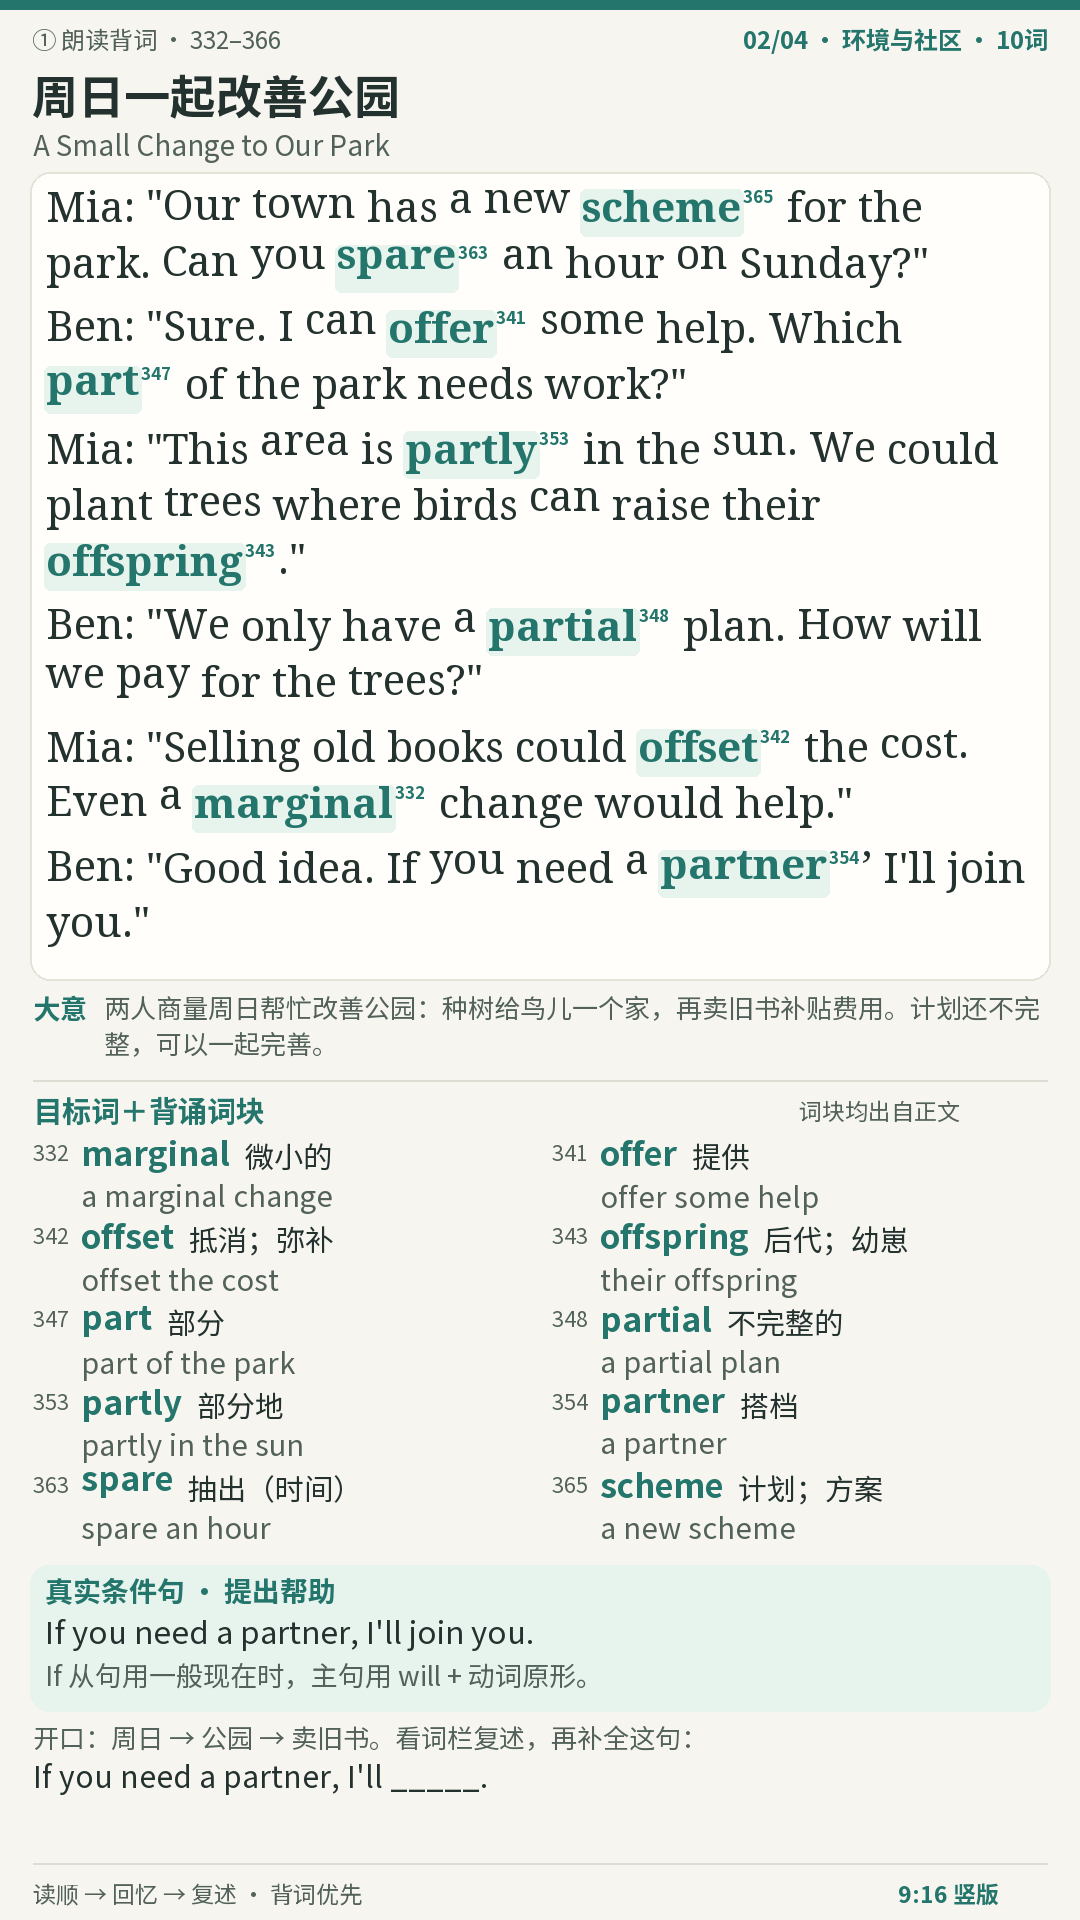
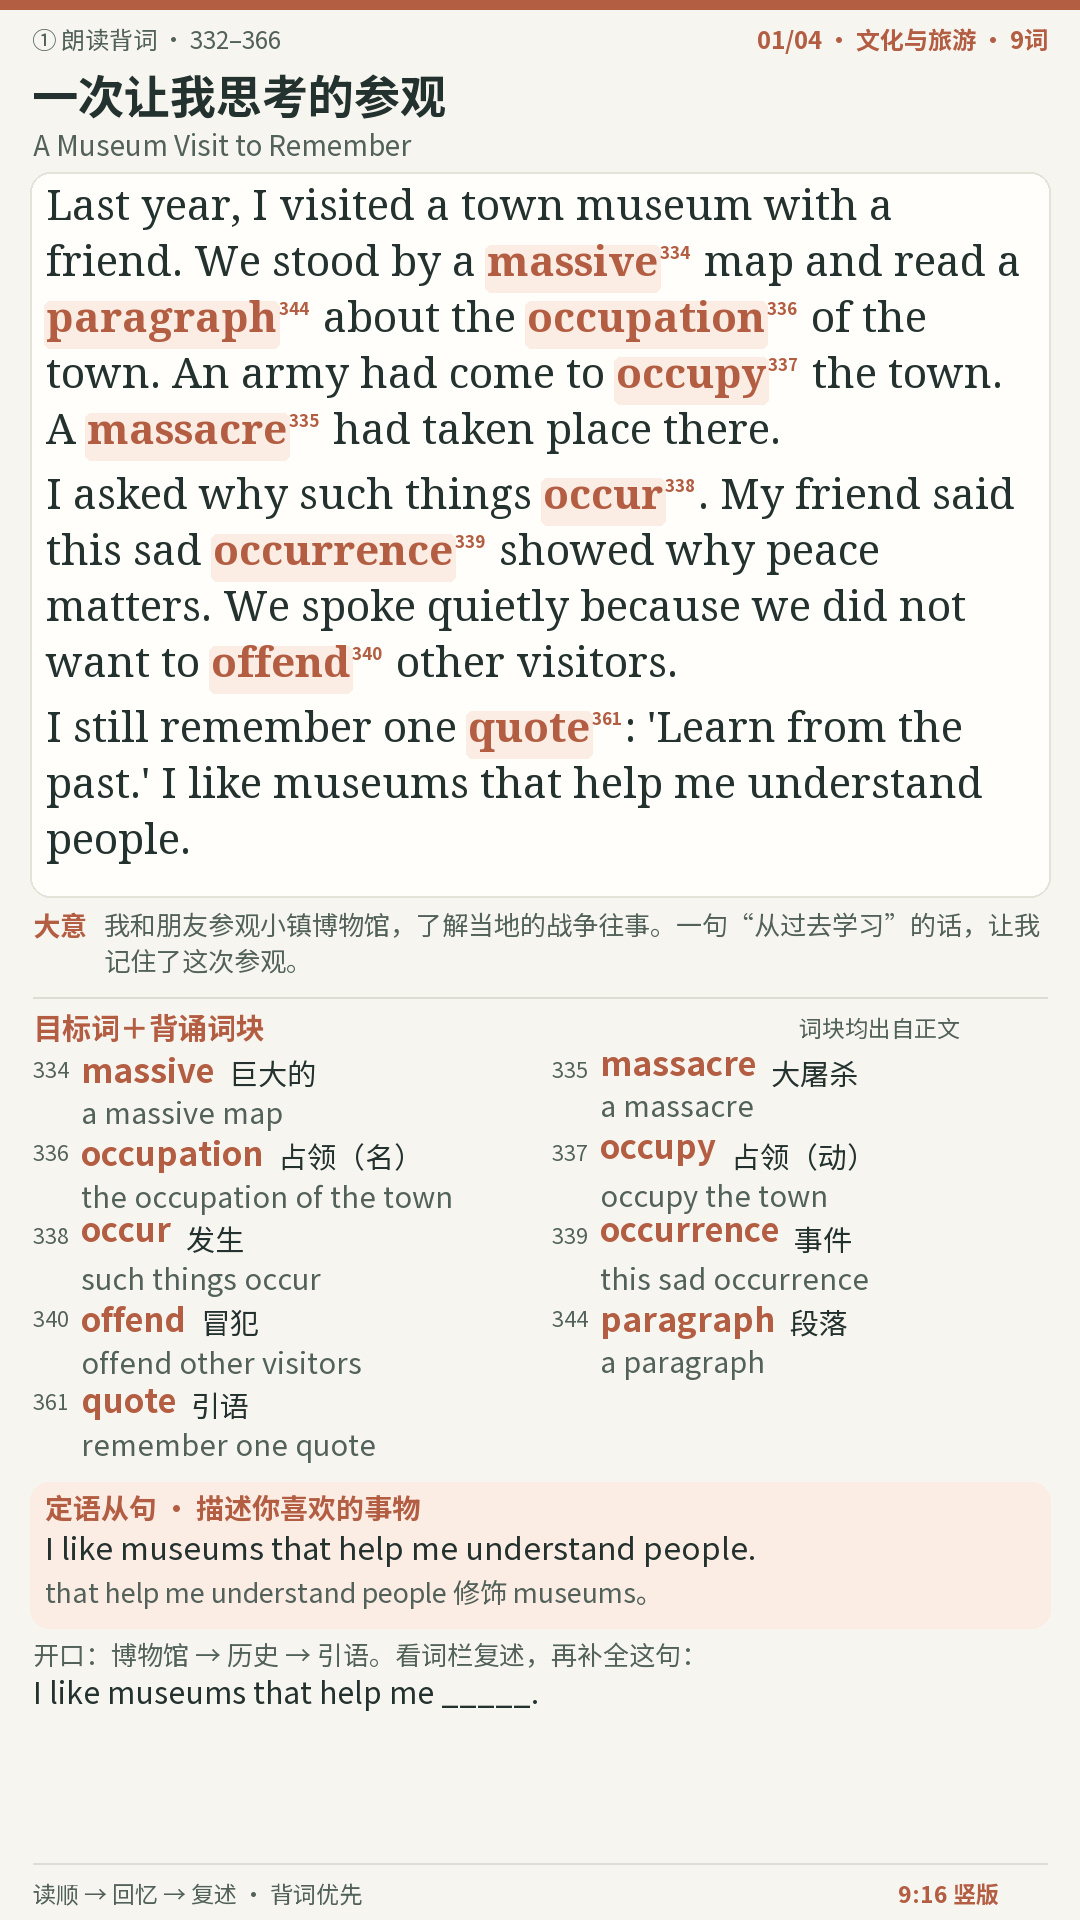
Fix shared baselines for inline story and cloze text

Changed region(s): [[0.0, 0.0, 1.0, 0.9375], [0.8556, 0.9688, 0.9167, 1.0], [0.7639, 0.75, 0.825, 0.7812]]

diff --git a/tests/test_render.py b/tests/test_render.py
@@ -1,0 +1,47 @@
+"""Raster regressions for readable inline English, independent of delivery checks."""
+import unittest
+
+from PIL import Image, ImageDraw
+
+from wordstory.common import ROOT
+from wordstory.fonts import font
+from wordstory.render import BG, rich
+
+
+@unittest.skipUnless((ROOT / "assets/fonts/NotoSerif.ttf").exists(), "Run python -m wordstory fonts")
+class InlineTypographyTests(unittest.TestCase):
+    def test_lowercase_capitals_targets_and_punctuation_share_baseline(self):
+        # These words end on the same baseline; only bridge has a descender.
+        # Looking at raster ink catches the old per-token top alignment even
+        # though the PNG size, coverage, and overflow checks all still passed.
+        for masked in (False, True):
+            with self.subTest(masked=masked):
+                image = Image.new("RGB", (1000, 160), BG)
+                draw = ImageDraw.Draw(image)
+                words = ["I", "we", "a", "mass", "we", "a", "bridge", "."]
+                rich(draw, "I we a mass we a bridge .", 20, 40, 960,
+                     {"mass"}, {"mass": {"number": 333}}, "#496BA0", "#EAF0FA", masked=masked)
+                x, bottoms = 20, []
+                for word in words:
+                    target = word == "mass"
+                    display = "______" if target and masked else word
+                    width = draw.textlength(display, font=font("body", 42, target))
+                    # Leave the superscript outside the word crop.
+                    crop = image.crop((int(x) - 1, 20, int(x + width) + 1, 130))
+                    ink = crop.convert("L").point(lambda p: 255 if p < 190 else 0)
+                    bounds = ink.getbbox()
+                    self.assertIsNotNone(bounds, word)
+                    if not (target and masked):
+                        bottoms.append((word, bounds[3] + 20))
+                    x += width
+                    if target:
+                        x += draw.textlength("333", font=font("ui", 17, True)) + 5
+                    x += draw.textlength(" ", font=font("body", 42))
+                baseline_bottoms = [bottom for word, bottom in bottoms if word != "bridge"]
+                self.assertLessEqual(max(baseline_bottoms) - min(baseline_bottoms), 1, bottoms)
+                descender_bottom = next(bottom for word, bottom in bottoms if word == "bridge")
+                self.assertGreaterEqual(descender_bottom - max(baseline_bottoms), 8)
+
+
+if __name__ == "__main__":
+    unittest.main()

diff --git a/wordstory/render.py b/wordstory/render.py
@@ -43,6 +43,9 @@ def wrapped(draw, value, x, y, width, size, leading, color=INK, bold=False):
 def rich(draw, paragraph, x, y, width, targets, vocab, accent, tint, masked=False):
     # Keep punctuation with each word; exact headwords receive original numbers.
     x0 = x
+    # y is the line's cap-height top. All body runs share its baseline:
+    # anchor="lt" would lift lowercase-only words and standalone punctuation.
+    baseline_offset = -font("body", 42).getbbox("H", anchor="ls")[1]
     paragraph = paragraph.replace("’", "'")
     pattern = r"(?<![A-Za-z])(?:" + "|".join(re.escape(w) for w in sorted(targets, key=len, reverse=True)) + r")(?![A-Za-z])"
     units, last = [], 0
@@ -78,10 +81,10 @@ def rich(draw, paragraph, x, y, width, targets, vocab, accent, tint, masked=Fals
                 if masked:
                     draw.line((x, y + 43, x + sw, y + 43), fill=accent, width=2)
                 else:
-                    draw.text((x, y), part, font=ft, fill=accent, anchor="lt")
+                    draw.text((x, y + baseline_offset), part, font=ft, fill=accent, anchor="ls")
                 text(draw, (x + sw + 2, y), number, 17, accent, True)
             else:
-                draw.text((x, y), part, font=ft, fill=INK, anchor="lt")
+                draw.text((x, y + baseline_offset), part, font=ft, fill=INK, anchor="ls")
             x += sw + nw
     return y + 56
 

diff --git a/AGENTS.md b/AGENTS.md
@@ -18,7 +18,7 @@ This repository is a small agent-operated workflow, not an unattended model serv
 - Deliver ALL learning content as inline portrait images, in the exact group/file order in `delivery.json`: reading, cloze, quiz, answers. State each group's purpose and actual image count before its images. Before EVERY image, write its short numbered caption as visible text in a separate paragraph, then a blank line and the image, then another blank line. Alt text alone is insufficient: this host merges consecutive image-only paragraphs into a thumbnail grid, even with blank lines. No grids, contact sheets, wide tables, or shuffled attachments. Put all answers after all questions.
 - Markdown/CSV/JSON/ZIP are internal working/backup formats. Never require the learner to open/download them for any lesson or answer. Do not attach them by default; provide them only if explicitly requested. If the host cannot show an image inline, resolve its native image/attachment presentation rather than substituting a file link or server path and claiming delivery complete.
 - For the actual response, read the build's internal `image-reply.md` and use its exact verified image paths and caption-separated order. Do not hand-type, abbreviate, rename, or guess batch/build/file paths. Check the host's actual image rendering; a placeholder/disabled image is not a delivered card. If the host requires a different native image reference, obtain it from that host's real export result.
-- Check every image at full size and a narrow-phone scale (390px and 360px widths), with no clipped text or horizontal scrolling. Phone-scale previews are a simulation, not proof from the user's physical phone. Keep complete story cards and the agreed large fonts.
+- Check every image at full size and a narrow-phone scale (390px and 360px widths), with no clipped text or horizontal scrolling. Inspect the English baseline in reading AND cloze cards: lowercase-only words (we, a), capitals, bold targets, and punctuation must sit on one shared baseline; only vocabulary numbers are superscript. Phone-scale previews are a simulation, not proof from the user's physical phone. Keep complete story cards and the agreed large fonts.
 - Rewrite/review uses the same 35 words and never advances progress. A first test of 332–366 also stays a test until the user asks to start formal new batches.
 - For a genuine new batch, build without `--advance`, inspect the images, then run the same build with `--advance` only after successful output checks. Do not equate generation with mastery.
 - Never use the last chat message as the only progress record. Read `state.json`. If missing, recover the user's private backup; do not guess the cursor.

diff --git a/docs/AGENT_RUNBOOK.md b/docs/AGENT_RUNBOOK.md
@@ -26,7 +26,7 @@ python -m wordstory import-pdf --pdf "<原PDF>" --out "<私有目录>/vocabulary
 4. 完成语言审读后填写 `editorial_review`，notes写清实际判断和必要限制，不能为了通过检查直接全选true。
 5. `python -m wordstory validate --request "<request.json>" --content "<content.json>"`。按报错修正文；不要改request或校验器。
 6. `python -m wordstory build --data "<data>" --request "<request.json>" --content "<content.json>"`。
-7. 打开delivery.json列出的全部PNG检查清晰度、字号、边缘、编号、分区和内容完整性，并查看360px/390px宽度的手机模拟预览。放不下则修改content后重建；旧版本保留，不覆盖原稿。抽查与答案顺序必须一致，遮词卡不得泄露目标词英文。
+7. 打开delivery.json列出的全部PNG检查清晰度、字号、边缘、编号、分区和内容完整性，并查看360px/390px宽度的手机模拟预览。逐行检查朗读和遮词正文的基线，特别看we、a、加粗词、句号及带下伸部的字母；普通词不得像编号一样上浮。放不下则修改content后重建；旧版本保留，不覆盖原稿。抽查与答案顺序必须一致，遮词卡不得泄露目标词英文。
 8. 这是正式“新一批”且检查通过时，用相同命令加 `--advance`。原子写入进度且重复执行不会二次推进；历史记录表示材料已生成，不表示学习者已掌握。
 9. 按delivery.json的groups顺序交付全部图片。每组先写用途和实际张数，再逐张嵌图。每张图前加一行可见的短编号/标题，再空行嵌图，图后再空行；下一张必须再次有文字标题。不能只用alt或连续纯图片段落，宿主会把它们并排缩成小图。组内编号与图上页码一致。默认示例是“下面4张：朗读背词”“下面4张：遮词回忆”“下面2张：单词抽查”“下面2张：对照答案”。其他批次用实际张数。不能并排拼图或只给目录、文件名、下载链接。正文、练习、答案都应在聊天里直接看图完成；Markdown/CSV/ZIP等后台文件默认不附。其他文字保持简短。
 

diff --git a/docs/CONTENT_RULES.md b/docs/CONTENT_RULES.md
@@ -33,6 +33,7 @@
 - 1080×1920，竖版9:16。用户最初口语中的“竖着的16:9”已由后续样张明确为此方向。
 - 一篇故事/对话及其词栏、语法和口头任务完整放在一张图。默认4篇就是4张，不拆成正文图、注释图。
 - 正文42px/行距56px，目标词33px，中文词义与词块29px，保持大字易读。版面放不下就缩短内容或调整分组，不自动缩字号，不截断内容。
+- 英文正文按整行共同基线排版，大小写、普通词、加粗目标词及标点自然对齐；只有词表编号使用上标。不得逐词按字形顶端对齐，造成we、a等小写词上浮或句号悬空。朗读图和遮词图都须检查。
 - 简洁米白底、清晰分区、少量颜色区分目标词。突出正文和背词，不增加装饰插图挤占字区。
 
 ## 手机端交付顺序
